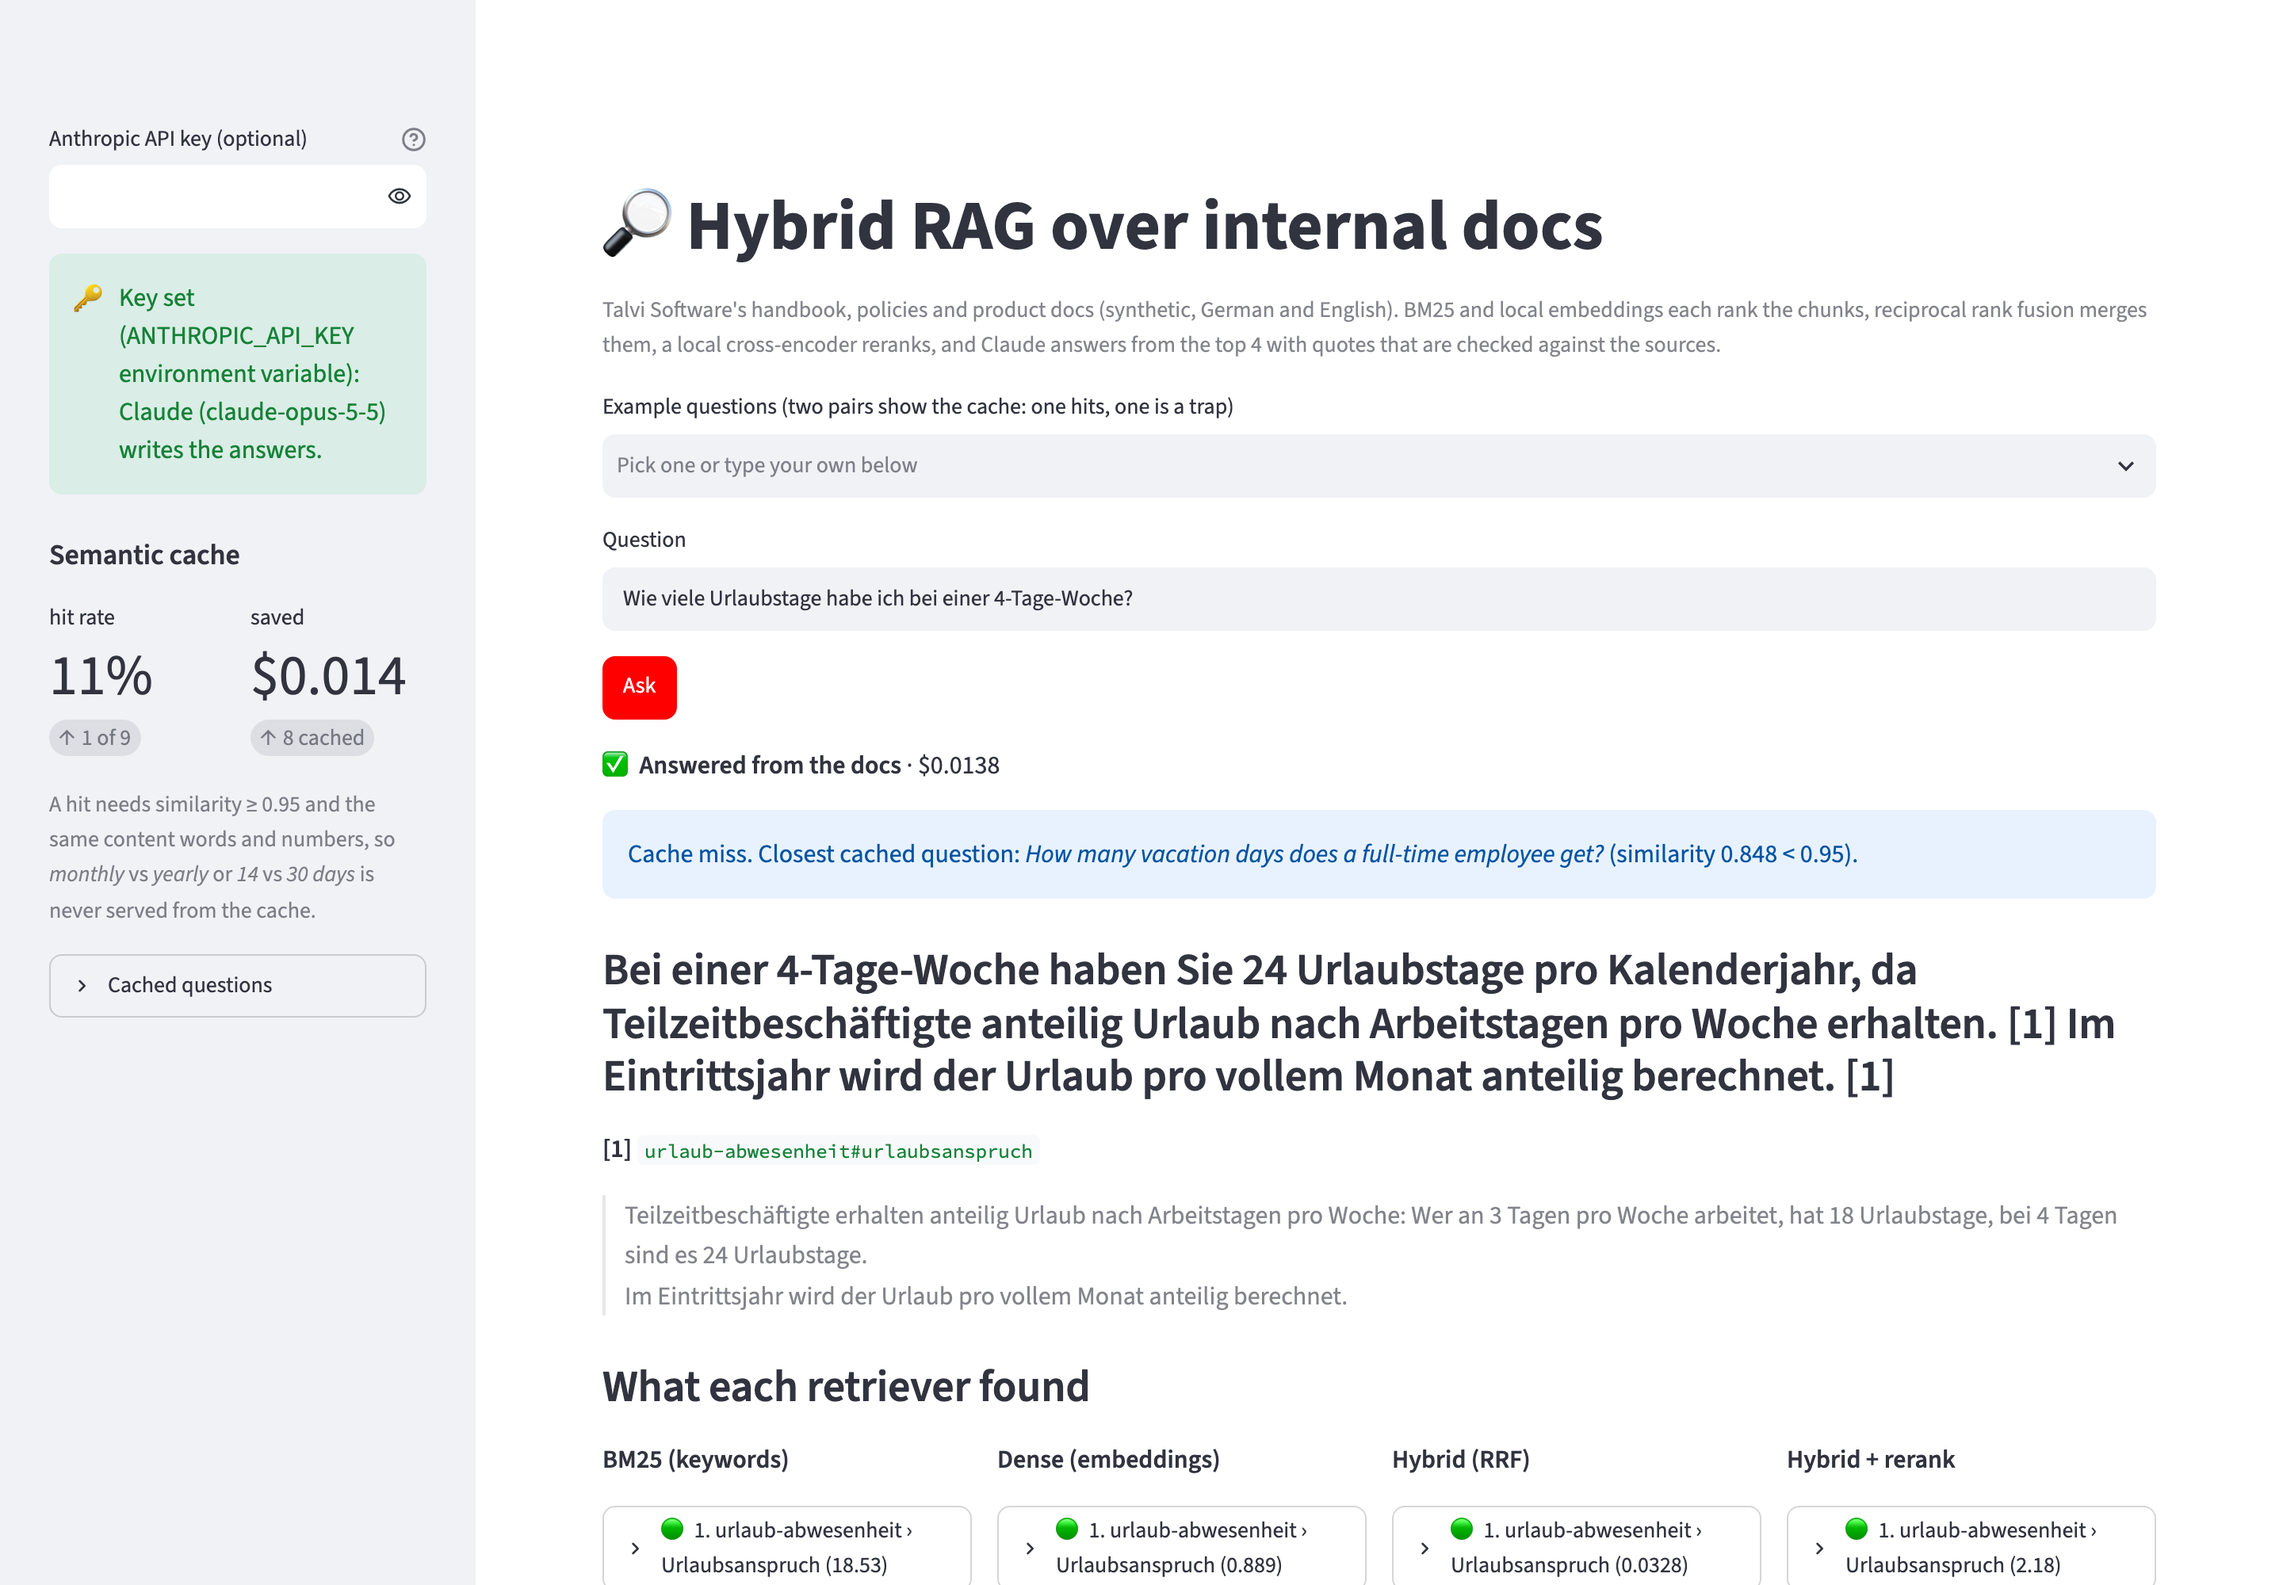
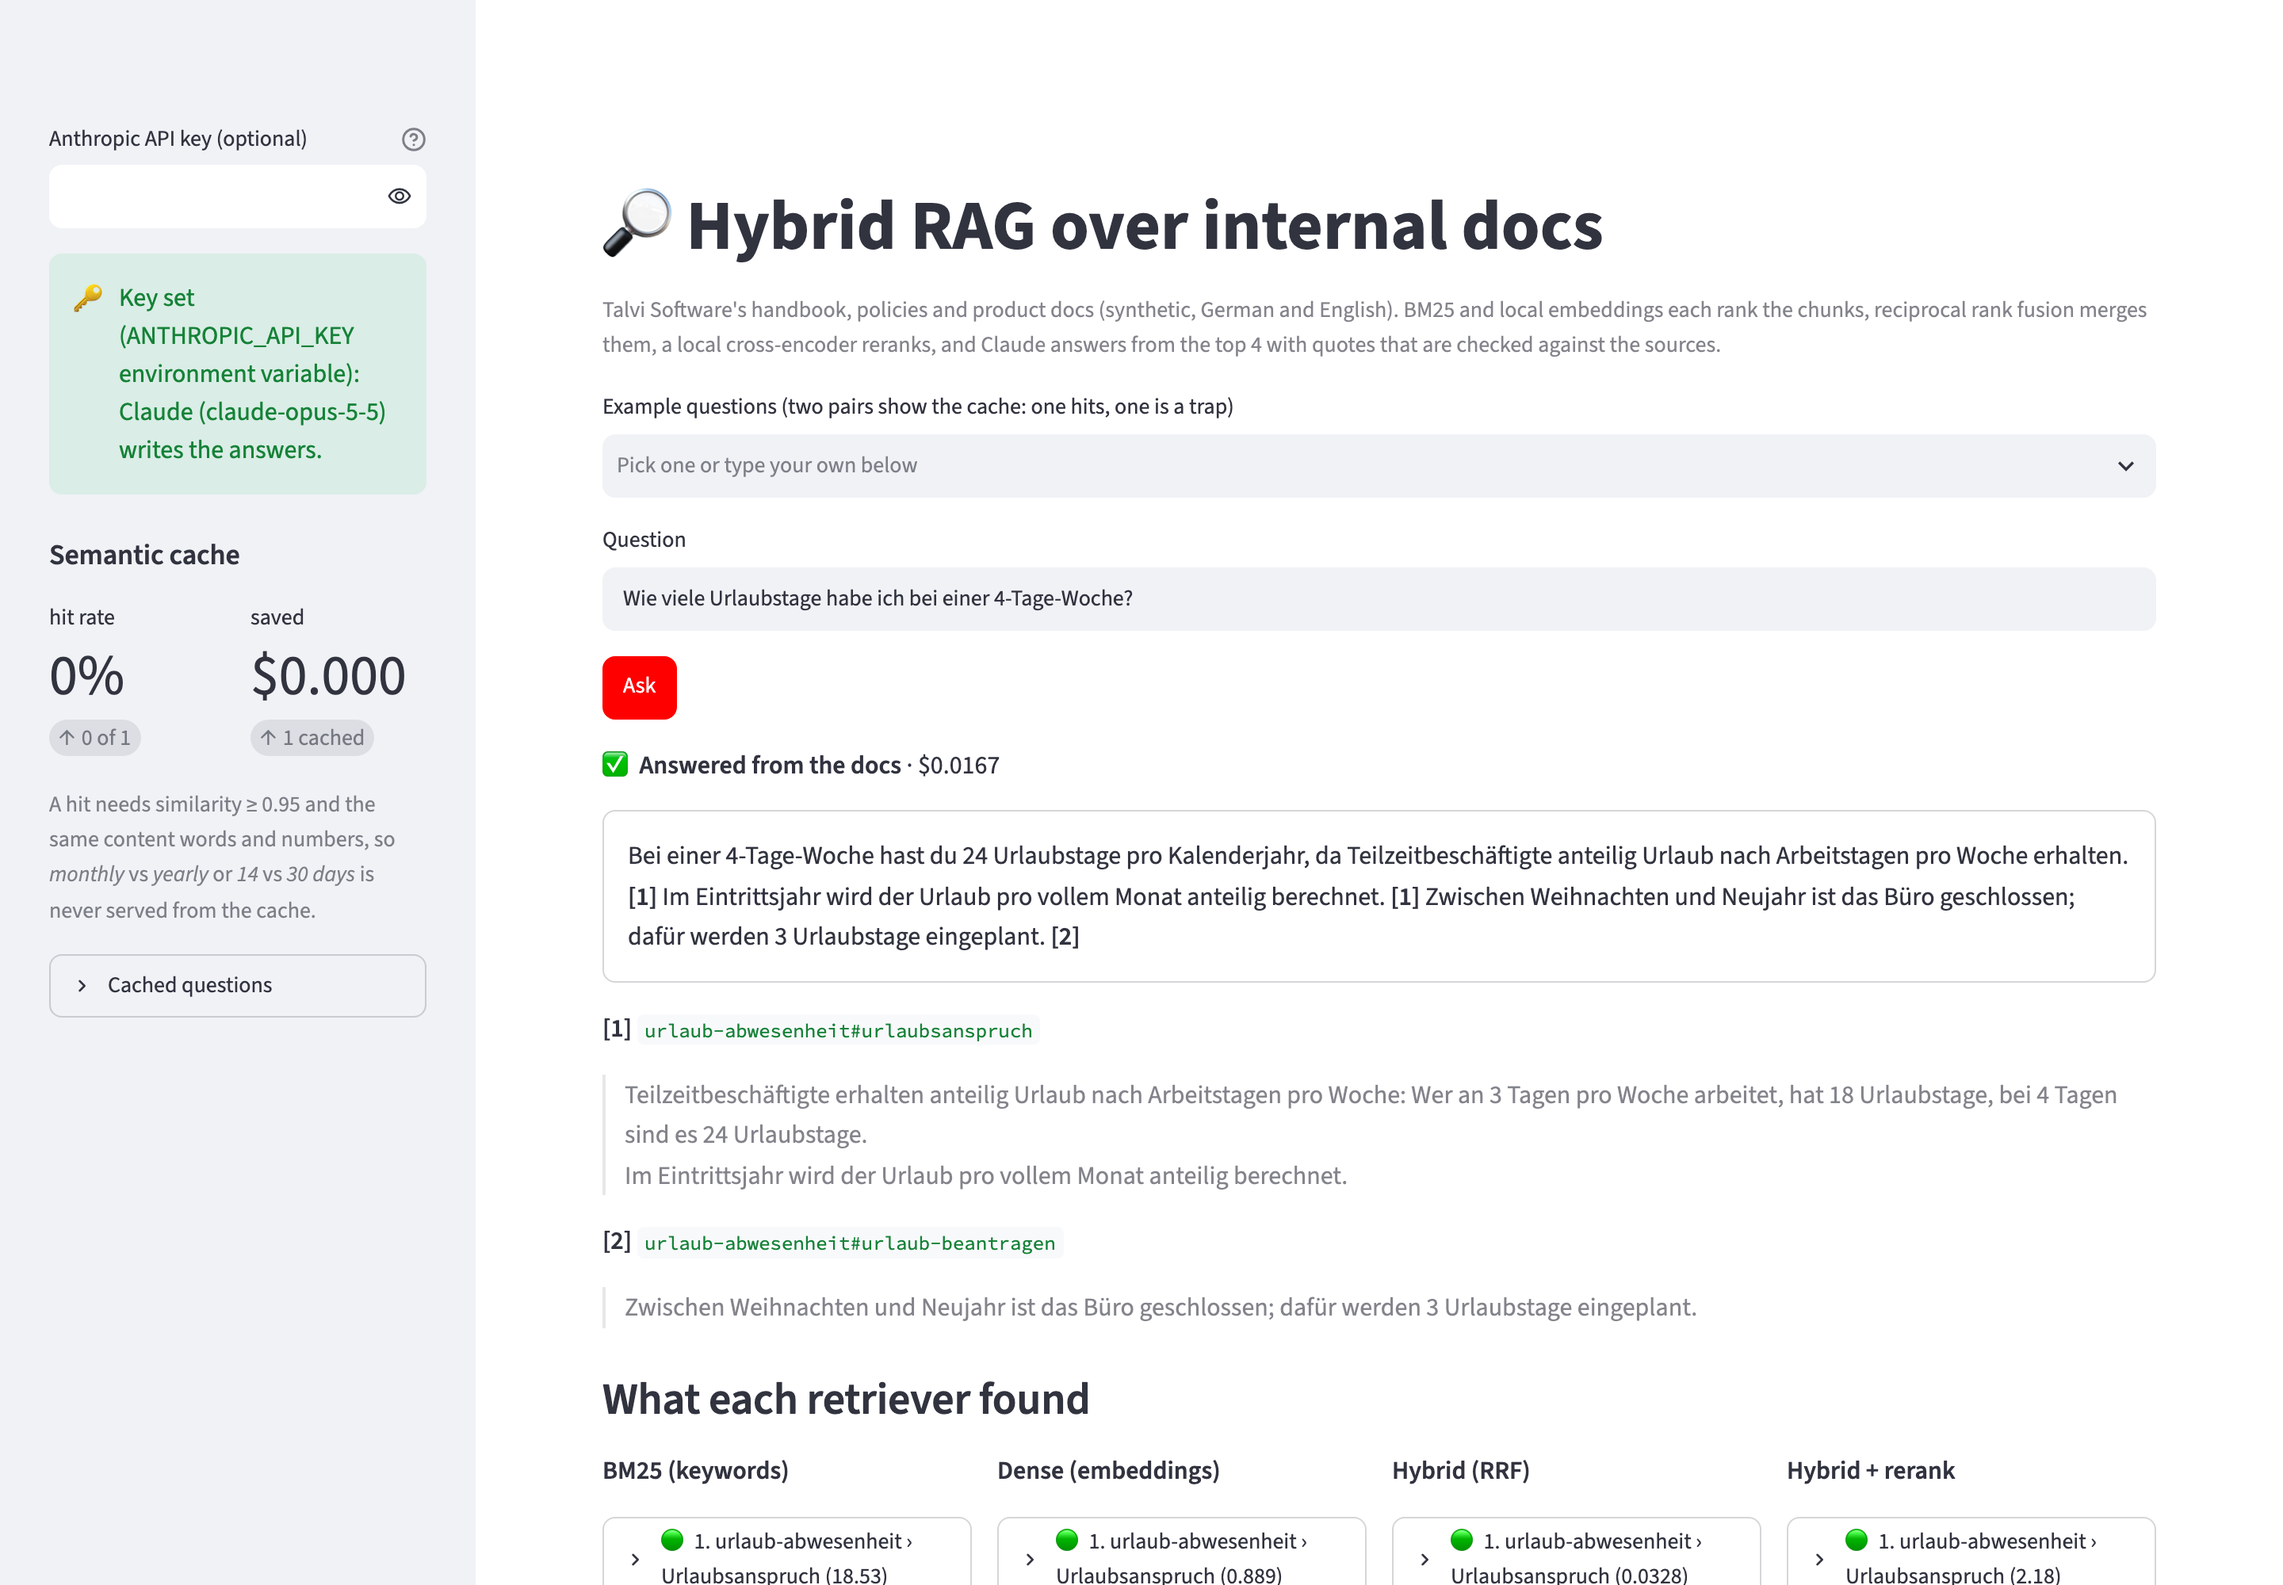
Previews from the new demo layout; one citation marker per source and claim

diff --git a/tests/test_answer.py b/tests/test_answer.py
@@ -55,7 +55,8 @@ def fake_llm(question, sources, key):
         return {"answerable": False, "claims": []}, 900, 20
     return {"answerable": True, "claims": [
         {"text": "Annual plans can be refunded within 30 days.",
-         "citations": [{"source": ANNUAL, "quote": "Annual plans can be refunded in full within 30 days of purchase."}]},
+         "citations": [{"source": ANNUAL, "quote": "Annual plans can be refunded in full within 30 days of purchase."},
+                       {"source": ANNUAL, "quote": "After 30 days there is no refund"}]},
         {"text": "You also get a free mug.", "citations": [{"source": ANNUAL, "quote": "and a free mug"}]},
         {"kind": "gap", "text": "The docs do not say if mugs are refunded.", "citations": []}]}, 1000, 100
 

diff --git a/src/hybrid_rag/demo_app.py b/src/hybrid_rag/demo_app.py
@@ -73,7 +73,8 @@ def show_answer(a: Answer) -> None:
         with st.container(border=True):
             st.markdown(" ".join(
                 f"*Not covered by the docs: {c.text}*" if c.status == "gap" else
-                c.text + "".join(f" **[{refs.index(x.source) + 1}]**" for x in c.citations if x.found)
+                c.text + "".join(f" **[{refs.index(i) + 1}]**" for i in dict.fromkeys(
+                    x.source for x in c.citations if x.found))
                 + (" ⚠" if c.status == "flagged" else "") for c in a.kept))
     elif a.status in ("not found", "unsupported"):
         st.markdown(f"#### {a.text}")

diff --git a/src/hybrid_rag/answer.py b/src/hybrid_rag/answer.py
@@ -88,7 +88,8 @@ class Answer(BaseModel):
         if self.status != "answered":
             return NOT_FOUND[lang(self.question)] if self.status in ("not found", "unsupported") else self.error
         refs = self.cited
-        return " ".join(c.text + "".join(f" [{refs.index(x.source) + 1}]" for x in c.citations if x.found)
+        return " ".join(c.text + "".join(f" [{refs.index(i) + 1}]" for i in dict.fromkeys(
+                            x.source for x in c.citations if x.found))
                         + (" (⚠ unverified number)" if c.status == "flagged" else "") for c in self.kept)
 
     @property

diff --git a/README.md b/README.md
@@ -30,10 +30,10 @@ above the 0.95 threshold. It is still a miss, because the numbers differ, and it
 
 ![Cache hit, similarity 0.997, $0](docs/preview-cache-hit.png)
 
-**A partial answer**: there is no GraphQL endpoint in the docs. Claude gives the general rate limits it found
-and says what the docs do not cover:
+**A partial answer**: *Can I edit boards offline in the mobile app, and is there a dark mode?* The German
+customer FAQ answers the first half; for the second, Claude says the docs do not cover it instead of guessing:
 
-![General rate limits with citation, plus "not covered by the docs" for GraphQL](docs/preview-gap.png)
+![Offline editing answered from the German FAQ, dark mode marked as not covered by the docs](docs/preview-gap.png)
 
 ## Run it locally (step by step)
 
